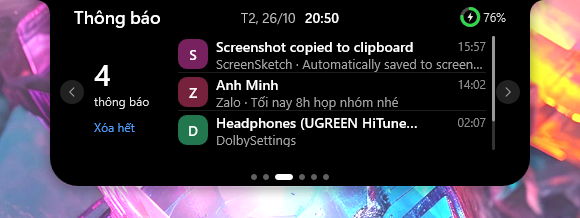
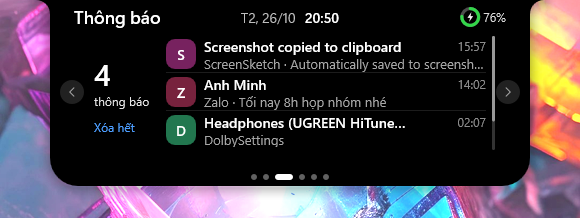
fix(notifications): the list starts closer to the count (the left column is 72 px)

Changed region(s): [[0.2793, 0.1651, 0.8379, 0.6881]]

diff --git a/src/render.rs b/src/render.rs
@@ -302,7 +302,7 @@ const UNIT_H: f32 = 18.0;
 
 /// Notifications page: a narrow column on the left with the count and "Clear all"; on the right, from
 /// `NOTE_X` to the content's end, a row for each notification: its app's tile, then two lines.
-const NOTE_X: f32 = 84.0;
+const NOTE_X: f32 = 72.0;
 const NOTE_Y: f32 = 36.0;
 const NOTE_H: f32 = 38.0;
 pub const NOTE_ROWS: usize = 3;
